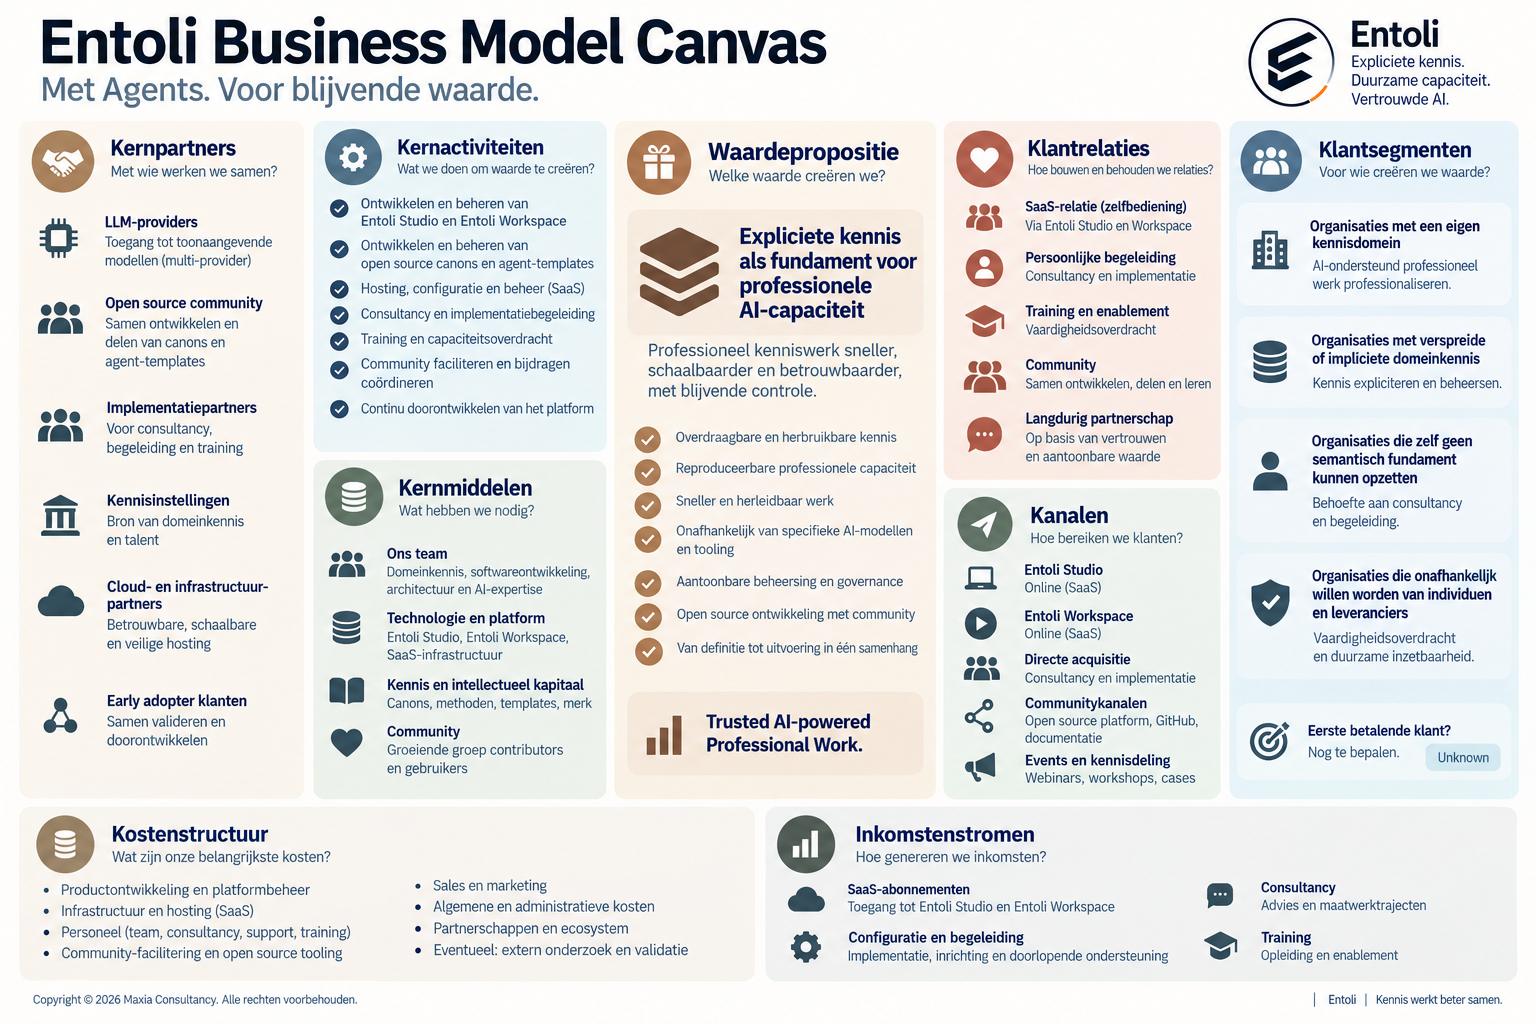
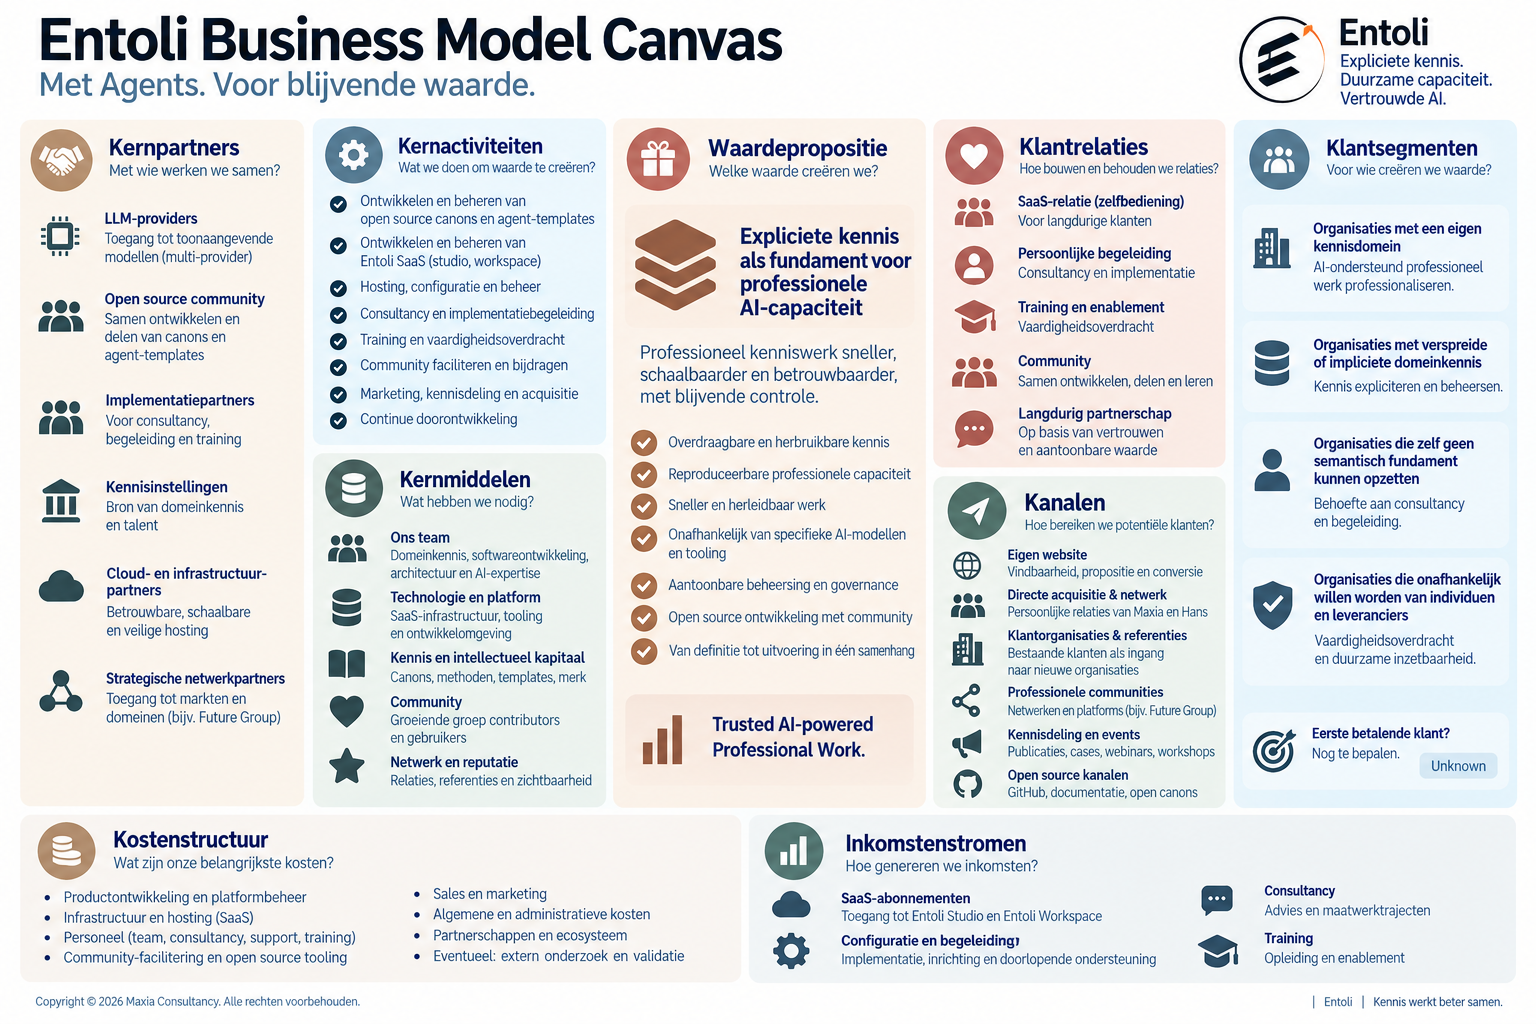
voeg toe visual bmc

diff --git a/doc/index.md b/doc/index.md
@@ -12,6 +12,10 @@ Een beknopte, visuele introductie op de architectuur — vijf views op een rij, 
 
 Hoe Entoli waarde creëert, levert en verzilvert: van klant en klantprobleem, via waardepropositie en aanbod, naar verdienmechanisme.
 
+### [Business Model Canvas](business-model/business-model-canvas.md)
+
+Datzelfde businessmodel in het Osterwalder-canvas: negen blokken, in één oogopslag.
+
 ### [Architectuurmodel](views/index.html){:target="_blank"}
 
 De ArchiMate-architectuur achter Entoli: business-, applicatie- en technologielagen, en de views die daaruit zijn opgebouwd.

diff --git a/doc/business-model/business-model-canvas.md b/doc/business-model/business-model-canvas.md
@@ -14,6 +14,10 @@ Elk item is gelabeld:
 
 Waar de bron onvoldoende antwoord geeft, is dat hier expliciet zichtbaar gemaakt — niet stilzwijgend ingevuld.
 
+![Entoli Business Model Canvas — de negen Osterwalder-blokken ingevuld vanuit het Entoli-businessmodel](bmc.png)
+
+*Hetzelfde businessmodel als het [Entoli Business Model](business-model.md), gestructureerd in het negen-blokken Business Model Canvas-format.*
+
 ## Customer Problems and Needs
 
 Overgenomen uit `business-model.md` §2–§4, als basis voor het hele canvas:
